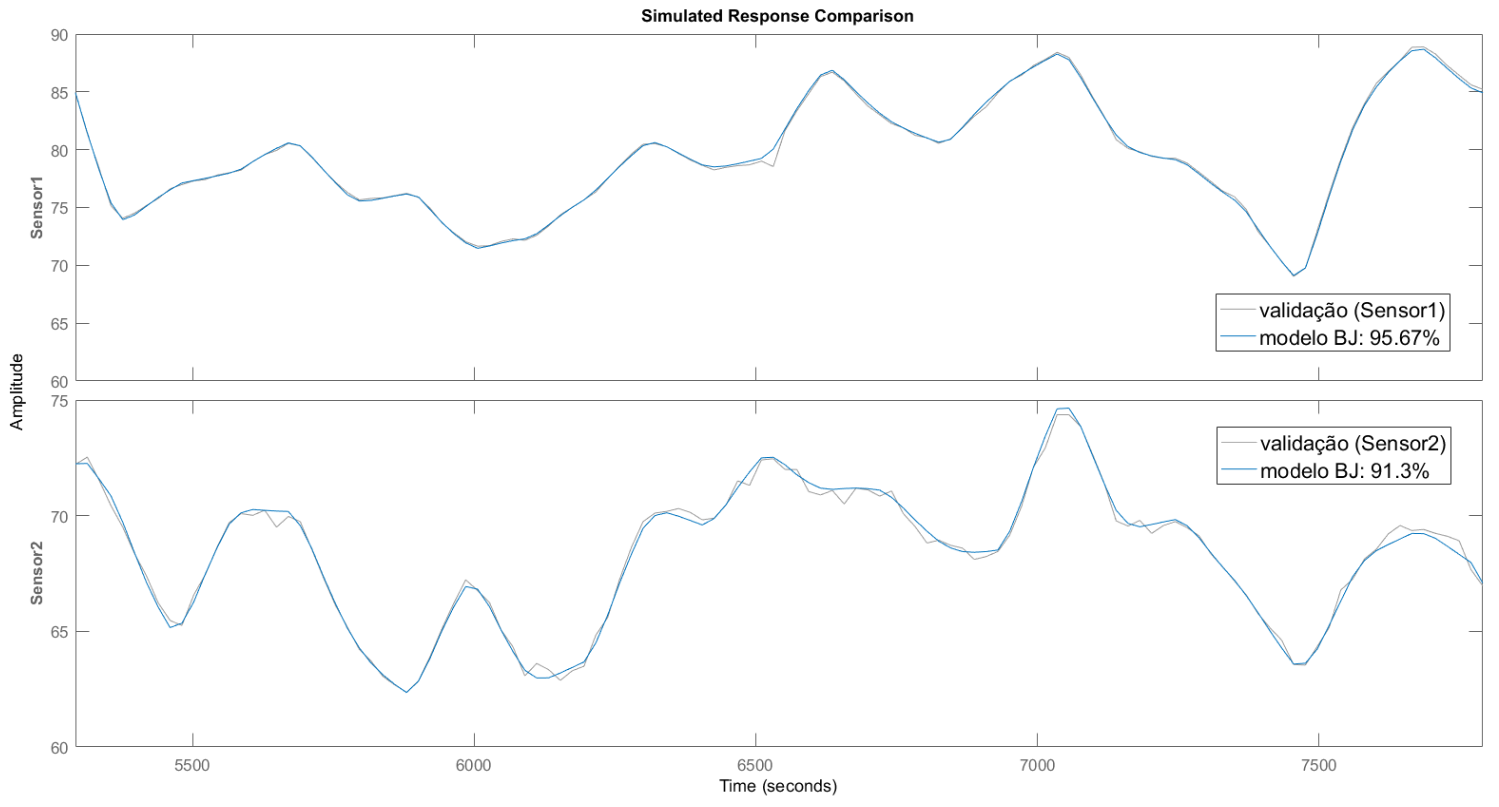
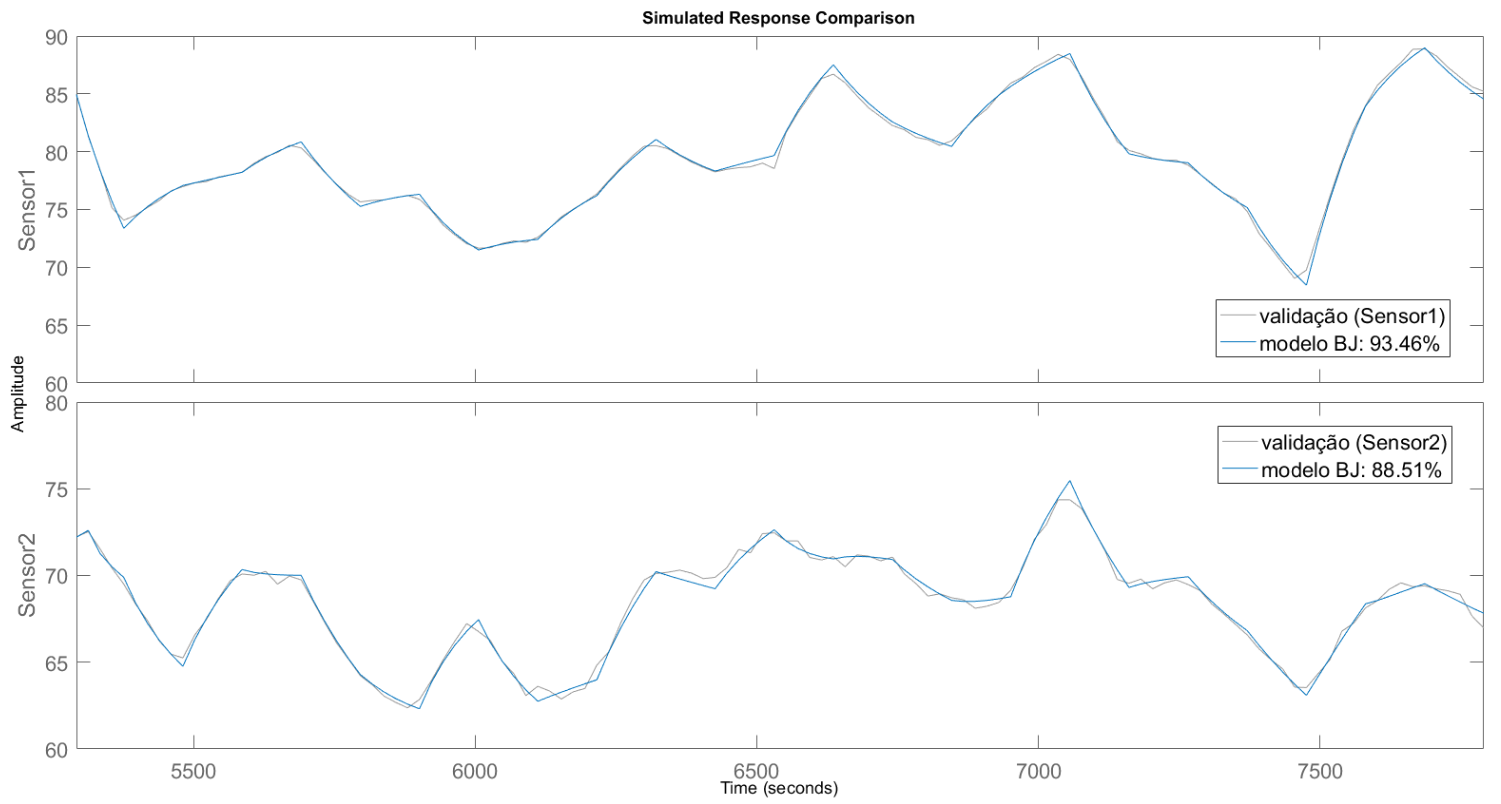
Modelos exp BJ atualizados

diff --git a/2_content/metodos.tex b/2_content/metodos.tex
@@ -963,11 +963,7 @@ e do tempo morto ($n_k$). As combinações utilizadas podem ser vistas na
 							$ \begin{bmatrix}	3	&	3	\\	3	&	3	\\	\end{bmatrix} $	,		
 							$ \begin{bmatrix}	4	&	4	\\	4	&	4	\\	\end{bmatrix} $		\\ \midrule
 		$n_k$			&
-							$ \begin{bmatrix}	0	&	0	\\	0	&	0	\\	\end{bmatrix} $	,		
-							$ \begin{bmatrix}	1	&	1	\\	1	&	1	\\	\end{bmatrix} $	,		
-							$ \begin{bmatrix}	2	&	2	\\	2	&	2	\\	\end{bmatrix} $	,		
-							$ \begin{bmatrix}	3	&	3	\\	3	&	3	\\	\end{bmatrix} $	,		
-							$ \begin{bmatrix}	4	&	4	\\	4	&	4	\\	\end{bmatrix} $		\\ \bottomrule
+							$ \begin{bmatrix}	1	&	1	\\	1	&	1	\\	\end{bmatrix} $		\\ \bottomrule
 	\end{tabular}
 	\caption*{Fonte: Autor}
 \end{table}
@@ -1002,12 +998,12 @@ e sua análise residual podem ser vistos na \cref{tab:tclabsp-model-bj}, na \cre
 										\text{Formato:}														\\
 										y_1(t) &= \frac{B(z)}{F(z)}u(t) + \frac{C(z)}{D(z)}e_1(t)			\\
 										\text{Onde:}														\\
-										B1(z) &= 0.0378 + 0.04587 z^{-1} - 0.002368 z^{-2}          		\\
-										B2(z) &= 0.005381 - 0.005655 z^{-1} + 0.004255 z^{-2}    			\\		  
-										C(z) &= 1 - 0.7435 z^{-1}                           				\\  
-										D(z) &= 1 - z^{-1}                               					\\
-										F1(z) &= 1 - 1.18 z^{-1} + 0.2775 z^{-2}         					\\
-										F2(z) &= 1 - 1.657 z^{-1} + 0.6763 z^{-2}  
+										B1(z) &= 0.1123 z^{-1} - 0.07415 z^{-2} 							\\
+										B2(z) &= 0.007474 z^{-1} - 0.005786 z^{-2}  						\\		
+										C(z) &= 1 - 0.7216 z^{-1} - 0.1974 z^{-2}  							\\	
+										D(z) &= 1 - z^{-1}  												\\	
+										F1(z) &= 1 - 1.531 z^{-1} + 0.5793 z^{-2}  							\\	
+										F2(z) &= 1 - 1.866 z^{-1} + 0.8761 z^{-2}  
 									\end{aligned}
 								$	
 							\\ \midrule
@@ -1017,12 +1013,12 @@ e sua análise residual podem ser vistos na \cref{tab:tclabsp-model-bj}, na \cre
 										\text{Formato:}														\\
 										y_2(t) &= \frac{B(z)}{F(z)}u(t) + \frac{C(z)}{D(z)}e_2(t)			\\
 										\text{Onde:}														\\
-										B1(z) &= 0.000291 + 0.001995 z^{-1} + 0.002964 z^{-2}        		\\
-										B2(z) &= 0.02837 + 0.01865 z^{-1} + 0.01077 z^-2          			\\
-										C(z) &= 1 - 0.888 z^{-1}                                 			\\
-										D(z) &= 1 - z^{-1}                                     				\\
-										F1(z) &= 1 - 1.689 z^{-1} + 0.7107 z^{-2}              				\\
-										F2(z) &= 1 - 0.9859 z^{-1} + 0.09669 z^{-2}    			
+										B1(z) &= 0.00393 z^{-1} + 0.001759 z^{-2} 							\\
+										B2(z) &= 0.06455 z^{-1} - 0.02444 z^{-2}  							\\	
+										C(z) &= 1 - 0.8508 z^{-1} - 0.09047 z^{-2} 							\\	
+										D(z) &= 1 - z^{-1}  												\\	
+										F1(z) &= 1 - 1.678 z^{-1} + 0.6984 z^{-2} 							\\	
+										F2(z) &= 1 - 1.218 z^{-1} + 0.3003 z^{-2}    			
 									\end{aligned}
 								$
 							\\ \bottomrule
